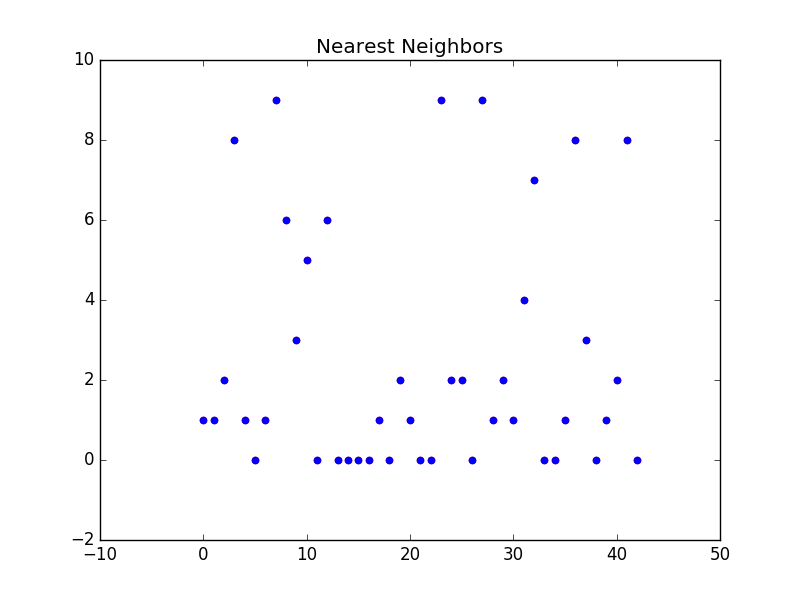
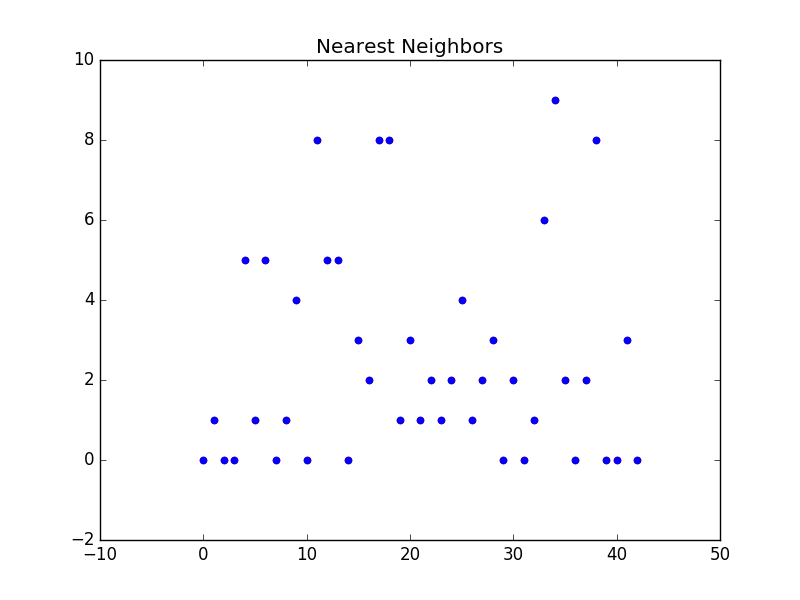
section 5 & 6

diff --git a/FinalReport/Discriminating_Program_Traces_using_Time.tex b/FinalReport/Discriminating_Program_Traces_using_Time.tex
@@ -303,8 +303,119 @@ the leaf node classifies the path to one of possible labels.
 
 \section{Estimation of Cluster Numbers}
 
+In order to apply K nearest neighbors classifiers we need to have a rough estimate of how many clusters can be form from the given dataset. Therefore, we choose DBSCAN to estimate the number of clusters. Density-based spatial clustering of applications with noise groups data samples by identifying core points and their reachable neighbors.
+
+The idea behind the algorithm of DBSCAN can be elaborated as the following:
+
+\begin{enumerate}
+    \item
+    Determining two parameters $\epsilon$ and the minimum number of samples required to form a cluster. In our implementation, we define $\epsilon=0.3$ and the number of minimum samples is 10.
+
+    \item
+    The algorithm scan each data sample that hasn't been marked unvisited, find $\epsilon-neighbors$ of this point, if the number of points reach the minimum baseline, a new cluster is formed. Otherwise, this point is marked as noise with label $-1$ in our implementation.
+
+    \item
+    If a point in $\epsilon-neighbors$ is also the core point of another cluster, we union these two clusters to form a new one.
+
+    \item
+    The above processes repeats until all data samples are visited and therefore, we get the dataset being clustered with different labels.
+\end{enumerate}
+
+    \includegraphics[scale=0.2]{MSB1_10_100.png}
+    \includegraphics[scale=0.2]{RegEx_20_10_1_101.png}
+
+    \includegraphics[scale=0.2]{RegEx_150_10_2_10011.png}
+    \includegraphics[scale=0.2]{RegEx_200_10_2_101011.png}
+
+Results and explanations:
+
+\begin{tabular}{ |p{2cm}||p{1.8cm}|p{1.8cm}|p{1.8cm}|p{1.8cm}| }
+ \hline
+ \multicolumn{5}{|c|}{DBSCAN Results} \\
+ \hline
+ Measurements & MSB1\_10 & RegEx\_20 &RegEx\_150 & RegEx\_200\\
+ \hline
+ Estimated number of clusters   & 9 & 6 & 51 & 69\\
+ Homogeneity & 0.499 & 0.333 &0.496 & 0.489\\
+ Completeness & 1.000 & 1.000 & 1.000 & 1.000\\
+ V-measure & 0.666 & 0.500 & 0.663 & 0.656\\
+ Adjusted Rand Index & 0.187 & 0.003 & 0.001 & 0.000\\
+ Silhouette Coefficient & 1.000 & 0.616 & 0.791 & 0.718\\
+ \hline
+\end{tabular}\\
+
+\begin{enumerate}
+
+    \item dataset
+
+    The applications that we collect data from are two micro-benchmark applications which are vulunerable to side-channels. As It takes different time for different function calls, the programs are potential to leak secrets. In this case, the inputs are a set of bit sequence of 0 and 1. Given the inputs, the programs will call functions which are determined by pattern of the benchmark:
+
+    \begin{enumerate}
+        \item
+        MSB: Only one function is called at each time. Therefore input data is sequence of 0 or 1 bits with 10 different function calls as features.
+
+        \item
+        Reg: For regular expression datset we are looking for patterns of several function calls each time. RegEx\_20, RegEx\_150 and RegEx\_200 in the above table are datasets with 20, 150 and 200 different function calls, looking for patterns 101, 10011 and 101011 respectively.
+
+    \end{enumerate}
+    \item Parameters
+
+    Homogeneity score explains the purity of data in clusters. Therefore, the higher homogeneity score is the better performance of clustering algorithm has. For the first three datasets, because the combination of functions is more complicated than MSB data, the homogeneity is not very high when features are simple. However, homogeneity grows as features increases.
+
+    Completeness score explains whether a cluster contains all the data points of a given class.
+
+    V-measure is the harmonic mean between homogeneity and completeness. A perfect labeling is both homogeneity and completeness and thus is 1.0.
+
+    Rand Index is very low here since the input matrix is sparse and didn’t consider the combination of functions as a feature. Therefore, it thinks samples in the same class are classified into different classes.
+
+    Silhouette Coefficient is the best when equals to 1 and the worst when equals to -1. Closed to 0 indicates there are overlapping clusters.
+
+\end{enumerate}
+
+
+
+
 \section{Other Regression and Classifiers}
 
+\begin{enumerate}
+    \item Regression
+
+    For linear regression, we split 80\% of each data into training set. By fitting the data in a regression model we get the following scores. The accuracy of MSB data is almost 1.0 since linear pattern is very obvious with only one function call at each time. The accuracy on regular expression dataset decrease obviously when model becomes complex.
+
+\begin{tabular}{ |p{2cm}||p{1.8cm}|p{1.8cm}|p{1.8cm}|p{1.8cm}| }
+ \hline
+ \multicolumn{5}{|c|}{Linear Regression Model} \\
+ \hline
+ Scores & MSB1\_10 & RegEx\_20 &RegEx\_150 & RegEx\_200\\
+ \hline
+ Variance Score   & 0.99 & 0.97 & -1.63e+19 & -2.22e+19\\
+ MSE & 2.28 & 4870613.93 & $2.26*10^{29}$ & $1.16*10^{30}$\\
+ \hline
+\end{tabular}\\
+
+    \item Classification
+
+    For classification problems we applied nearest neighbors, linear SVM, RBF SVM, decision tree, random forest, neural network, adaboosting and Naive bayes classifiers. The table below indicates that naive bayes, nearest neighbors and RBF SVM have the best performance.
+
+\begin{tabular}{ |p{2cm}||p{1.8cm}|p{1.8cm}|p{1.8cm}|p{1.8cm}| }
+ \hline
+ \multicolumn{5}{|c|}{Linear Regression Model} \\
+ \hline
+ Scores & MSB1\_10 & RegEx\_20 &RegEx\_150 & RegEx\_200\\
+ \hline
+ Nearest Neighbors   & 1.0 & 0.1 & 0.08 & 0.09\\
+ Linear SVM & 0.56 & 0.1 & 0.03 & 0.06\\
+ RBF SVM & 1.0 & 0.2 & 0.1 & 0.11\\
+ Decision Tree & 0.81 & 0.15 & 0.04 & 0.06\\
+ Random Forest & 0.98 & 0.17 & 0.08 & 0.06\\
+ Neural Net & 0.98 & 0.2 & 0.04 & 0.07\\
+ Adaboost & 0.98 & 0.2 & 0.03 & 0.06\\
+ Naive Bayes & 1.0 & 0.23 & 0.09 & 0.09\\
+ \hline
+\end{tabular}\\
+
+
+\end{enumerate}
 \section{Results}
 As described earlier, we are looking for a scalable and accurate model which should
 be able to explain the data given program internal function calls as features and time

diff --git a/NearestNeighbors.py b/NearestNeighbors.py
@@ -1,0 +1,67 @@
+import pandas as pd
+import numpy as np
+from sklearn.cross_validation import train_test_split
+from sklearn.neural_network import MLPClassifier
+from sklearn.neighbors import KNeighborsClassifier
+import matplotlib.pyplot as plt
+from sklearn.metrics import classification_report
+
+# data preprocessing
+dataset_list = ['MSB1_10_100', 'RegEx_20_10_1_101', 'RegEx_150_10_2_10011', 'RegEx_200_10_2_101011']
+num_func = [11, 21, 151, 201]
+
+df = pd.read_csv("./CSV/" + dataset_list[3] + ".csv")
+train, test = train_test_split(df, train_size=0.8)
+
+df_Train = train[['T1', 'T2', 'T3', 'T4', 'T5', 'T6', 'T7', 'T8', 'T9', 'T10']]
+train['mean'] = (train['T1'] + train['T2'] + train['T3'] + train['T4'] + train['T5'] + train['T6'] + train['T7'] + train['T8'] + train['T9'] + train[
+        'T10']) / 10
+Mean_Y = np.array(train['mean'].reshape(-1,1))
+ytrainl=[]
+for i in Mean_Y:
+    ytrainl.append(int(i[0]/100))
+ytrain = np.asarray(ytrainl)
+
+df_Test = test[['T1', 'T2', 'T3', 'T4', 'T5', 'T6', 'T7', 'T8', 'T9', 'T10']]
+test['mean'] = (test['T1'] + test['T2'] + test['T3'] + test['T4'] + test['T5'] + test['T6'] + test['T7'] + test['T8'] + test['T9'] + test[
+        'T10']) / (10)
+Mean_y = np.array(test['mean'].reshape(-1,1))
+ytestl=[]
+for i in Mean_y:
+    ytestl.append(int(i[0]/100))
+ytest = np.asarray(ytestl)
+
+func_array = []
+for i in range(0, num_func[3]):
+    func_array.append('f'+str(i))
+
+df_F = train[func_array]
+xtrain = np.array(df_F)
+
+df_F = test[func_array]
+xtest = np.array(df_F)
+
+clf = KNeighborsClassifier(3)
+
+#train model
+clf.fit(xtrain, ytrain)
+score = clf.score(xtest, ytest)
+print("Nearest Neighbors", "Score:", score)
+
+pred = clf.predict(xtest)
+func_x = []
+for i in xtest:
+    index = np.nonzero(i)
+    func_x.append(index[0][0])
+
+ind = range(len(ytest))
+
+print(classification_report(ytest, pred))
+
+plt.scatter(ind, ytest, color='red', label="Actual Value")
+plt.scatter(ind, pred, color='blue', label="Prediction")
+plt.title("Nearest Neighbors")
+plt.show()
+#plt.savefig('./Results/'+item+'/'+name+'.png')
+
+

diff --git a/Regressions.py b/Regressions.py
@@ -8,9 +8,9 @@ from sklearn.metrics import mean_squared_error
 import matplotlib.pyplot as plt
 
 # df = pd.read_csv("./CSV/RegEx_20_10_1_101.csv")
-# df = pd.read_csv("./CSV/RegEx_150_10_2_10011.csv")
+df = pd.read_csv("./CSV/RegEx_150_10_2_10011.csv")
 # df = pd.read_csv("./CSV/RegEx_200_10_2_101011.csv")
-df = pd.read_csv("./CSV/MSB1_10_100.csv")
+# df = pd.read_csv("./CSV/MSB1_10_100.csv")
 
 train, test = train_test_split(df, train_size=0.8)
 
@@ -27,7 +27,7 @@ for i in train_Mean:
 Y = np.asarray(m_list)
 
 func_array = []
-for i in range(0, 11):
+for i in range(0, 151):
     func_array.append('f'+str(i))
 train_F = train[func_array]
 X = np.array(train_F)
@@ -45,7 +45,7 @@ for i in test_Mean:
 y_true = np.asarray(m_list)
 
 func_array = []
-for i in range(0, 11):
+for i in range(0, 151):
     func_array.append('f'+str(i))
 test_F = test[func_array]
 xtest = np.array(test_F)
@@ -56,7 +56,20 @@ score = regr.score(xtest, y_true)
 print("Variance Score:", score)
 pred = regr.predict(xtest)
 # The coefficients
-# print('Coefficients: \n', regr.coef_)
+print('Coefficients: \n', regr.coef_)
+print('Bias: ', regr.intercept_)
+
+# Print Formula
+formula = ""
+index = 0
+for i in regr.coef_:
+    if i>=0:
+        formula += '+'+str(i)+'f'+str(index)
+    else:
+        formula += str(i)+'f'+str(index)
+    index += 1
+
+print('formula', str(regr.intercept_)+formula)
 # diff = pred - y_true
 
 # The mean squared error
@@ -88,4 +101,4 @@ plt.title("MSB1_10_100")
 
 plt.legend(loc=4)
 
-plt.show()
+# plt.show()

diff --git a/estimateCluster.py b/estimateCluster.py
@@ -7,9 +7,9 @@ from sklearn.preprocessing import StandardScaler
 from scipy.sparse import csr_matrix
 
 # Comment here to change dataset, also the lenth of functions below
-# df = pd.read_csv("./CSV/RegEx_20_10_1_101.csv")
+df = pd.read_csv("./CSV/RegEx_20_10_1_101.csv")
 # df = pd.read_csv("./CSV/RegEx_150_10_2_10011.csv")
-df = pd.read_csv("./CSV/RegEx_200_10_2_101011.csv")
+# df = pd.read_csv("./CSV/RegEx_200_10_2_101011.csv")
 # df = pd.read_csv("./CSV/MSB1_10_100.csv")
 
 
@@ -24,10 +24,11 @@ labels_true = np.asarray(m_list)
 
 # At here change the length according to different dataset [21, 151, 201, 11]
 func_array = []
-for i in range(0, 201):
+for i in range(0, 21):
     func_array.append('f'+str(i))
 df_F = df[func_array]
 X = np.array(df_F)
+# print(df_F)
 
 # A = csr_matrix(X)
 # X = A.todense()
